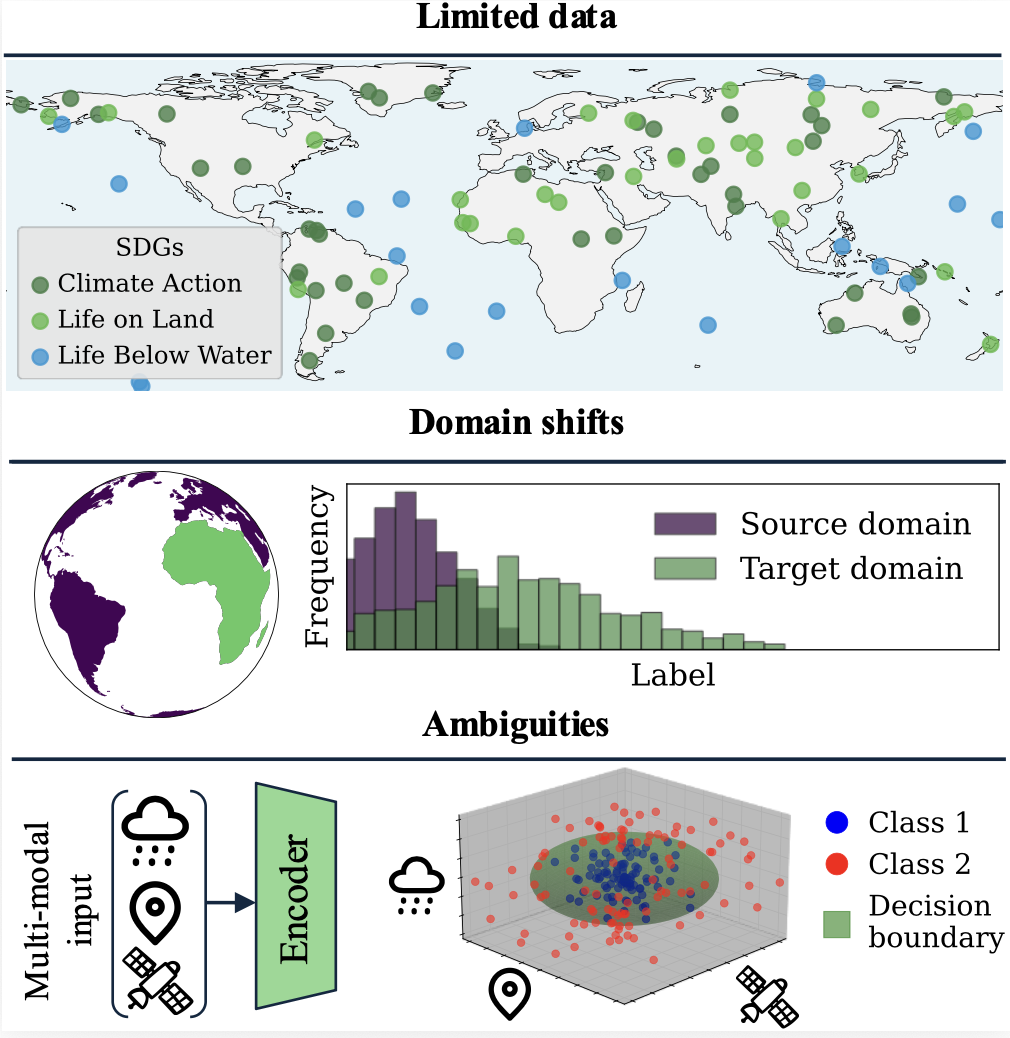
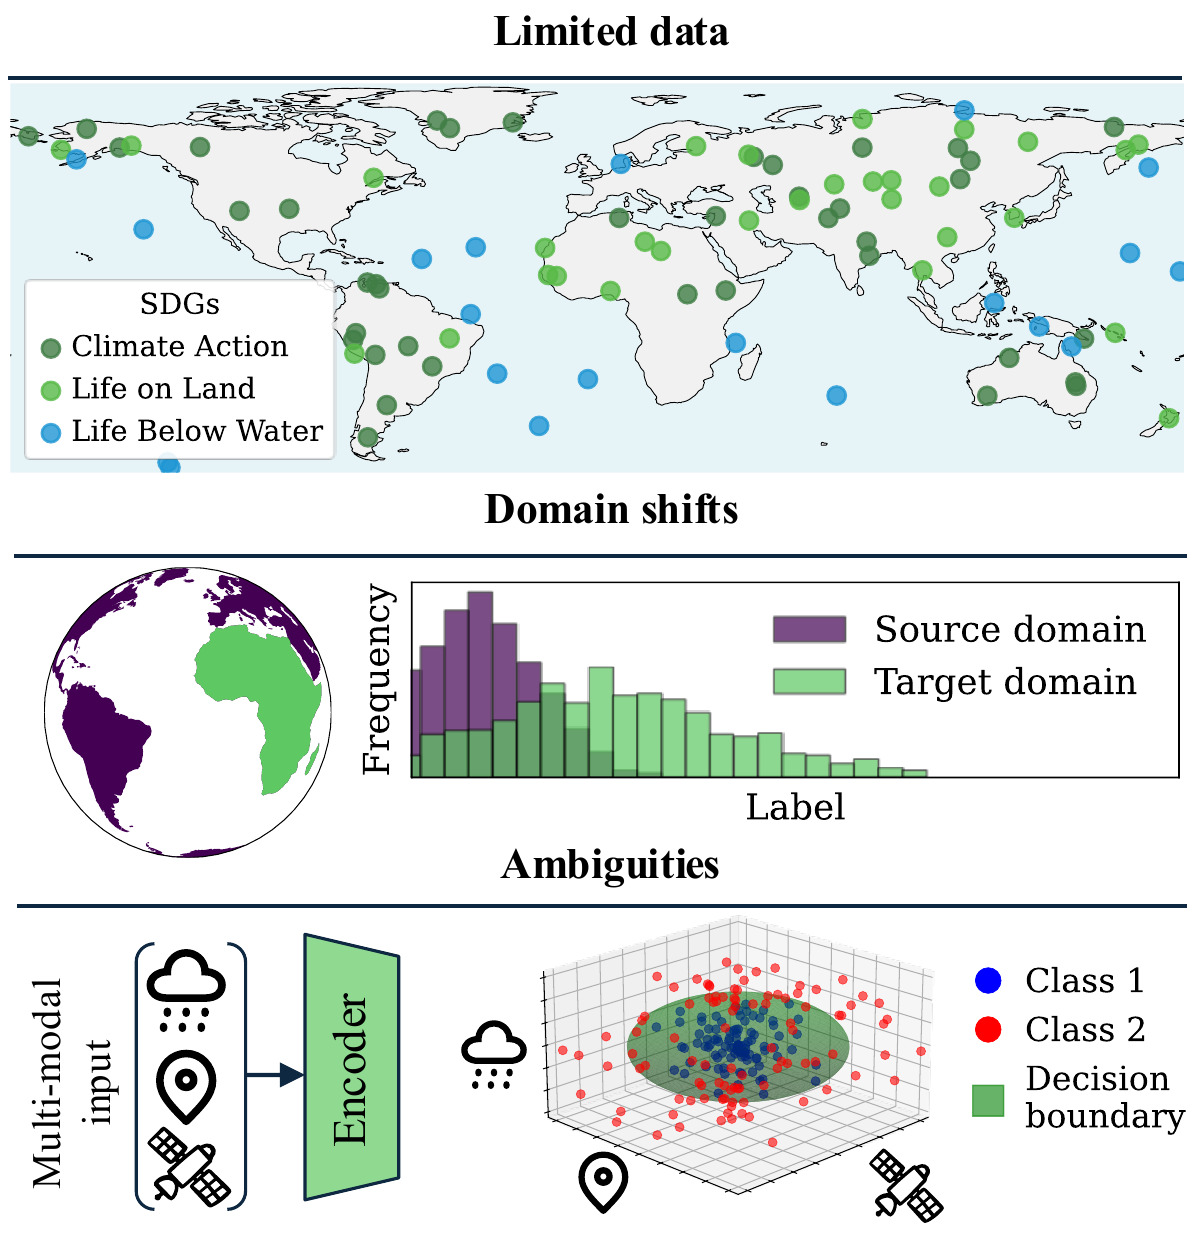
Made teaser transparent

diff --git a/docs/index.html b/docs/index.html
@@ -577,7 +577,7 @@
           </p>
         </div>
         <div class="content">
-          <img src="static/images/teaser_figure.png" alt="Teaser figure showing MMEarth-Bench motivation" style="width: 75%; height: auto; margin-top: 1rem; border-radius: 12px;" loading="lazy"/>
+          <img src="static/images/teaser_figure.png" alt="Teaser figure showing MMEarth-Bench motivation" style="width: 70%; height: auto; margin-top: 1rem; border-radius: 12px;" loading="lazy"/>
         </div>
       </div>
     </div>
